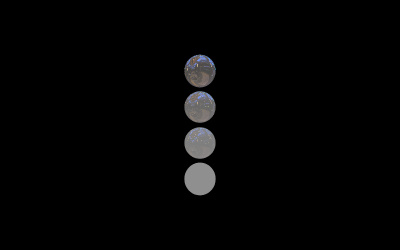
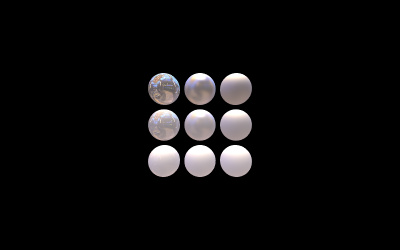
Examples: Use PBR material in webxr_ar_lighting again. (#23171)

Changed region(s): [[0.36, 0.196, 0.63, 0.784]]

diff --git a/examples/webxr_ar_lighting.html b/examples/webxr_ar_lighting.html
@@ -36,7 +36,8 @@
 
 				camera = new THREE.PerspectiveCamera( 70, window.innerWidth / window.innerHeight, 0.01, 20 );
 
-				const defaultLight = new THREE.AmbientLight( 0xffffff );
+				const defaultLight = new THREE.HemisphereLight( 0xffffff, 0xbbbbff, 1 );
+				defaultLight.position.set( 0.5, 1, 0.25 );
 				scene.add( defaultLight );
 
 				//
@@ -63,7 +64,7 @@
 					// The estimated lighting also provides an environment cubemap, which we can apply here.
 					if ( xrLight.environment ) {
 
-						updateEnvironment( xrLight.environment );
+						scene.environment = xrLight.environment;
 
 					}
 
@@ -76,7 +77,7 @@
 					scene.remove( xrLight );
 
 					// Revert back to the default environment.
-					updateEnvironment( defaultEnvironment );
+					scene.environment = defaultEnvironment;
 
 				} );
 
@@ -90,7 +91,7 @@
 
 						defaultEnvironment = texture;
 
-						updateEnvironment( defaultEnvironment );
+						scene.environment = defaultEnvironment;
 
 					} );
 
@@ -105,16 +106,17 @@
 				const ballGroup = new THREE.Group();
 				ballGroup.position.z = - 2;
 
-				const rows = 1;
-				const cols = 4;
+				const rows = 3;
+				const cols = 3;
 
 				for ( let i = 0; i < rows; i ++ ) {
 
 					for ( let j = 0; j < cols; j ++ ) {
 
-						const ballMaterial = new THREE.MeshPhongMaterial( {
+						const ballMaterial = new THREE.MeshStandardMaterial( {
 							color: 0xdddddd,
-							reflectivity: j / cols
+							roughness: i / rows,
+							metalness: j / cols
 						} );
 						const ballMesh = new THREE.Mesh( ballGeometry, ballMaterial );
 						ballMesh.position.set( ( i + 0.5 - rows * 0.5 ) * 0.4, ( j + 0.5 - cols * 0.5 ) * 0.4, 0 );
@@ -167,18 +169,6 @@
 				renderer.render( scene, camera );
 
 			}
-
-			function updateEnvironment( envMap ) {
-
-				scene.traverse( function ( object ) {
-
-					if ( object.isMesh ) object.material.envMap = envMap;
-
-
-				} );
-
-			}
-
 
 		</script>
 	</body>

diff --git a/examples/jsm/webxr/XREstimatedLight.js b/examples/jsm/webxr/XREstimatedLight.js
@@ -69,6 +69,8 @@ class SessionLightProbe {
 
 				textureProperties.__webglTexture = cubeMap;
 
+				this.xrLight.environment.needsPMREMUpdate = true;
+
 			}
 
 		}
